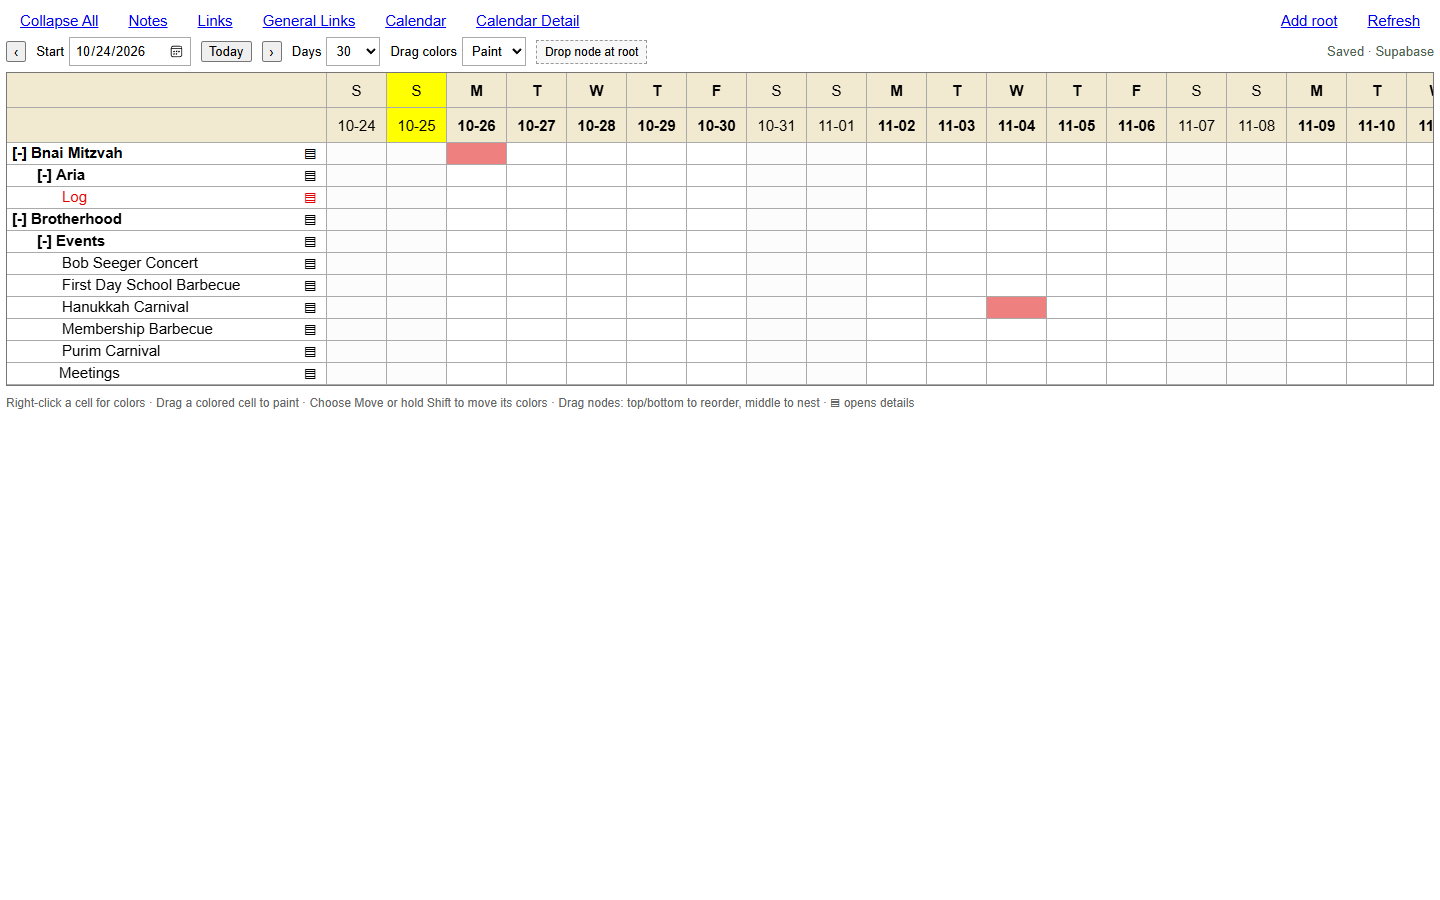
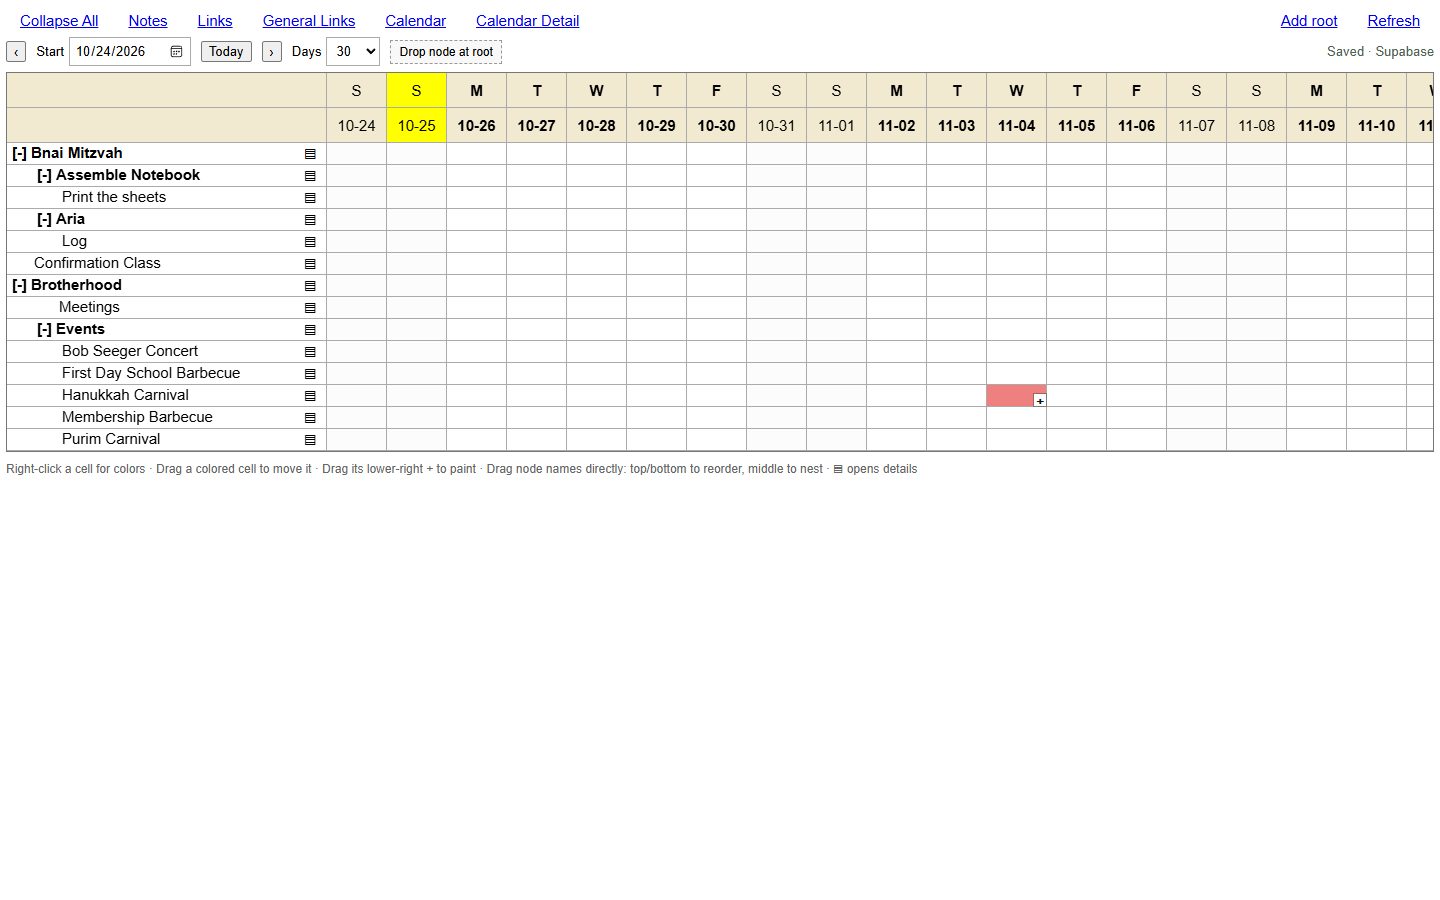
Use white hover popups and add inline sibling creation

diff --git a/src/app.js b/src/app.js
@@ -14,10 +14,10 @@ function dates(){return Array.from({length:Number($('#days').value)},(_,i)=>addD
 function select(id){selected=id;document.querySelectorAll('.node[data-id]').forEach(n=>n.classList.toggle('selected',n.dataset.id===id));}
 function render(){const parents=nodes.filter(n=>children(nodes,n.id).length),anyCollapsed=parents.some(n=>collapsed.has(n.id));$('#expand-toggle').textContent=anyCollapsed?'Expand All':'Collapse All';$('#expand-toggle').setAttribute('aria-expanded',String(!anyCollapsed));const table=el('table'),head=el('thead'),days=dates();
  for(let row=0;row<2;row++){const tr=el('tr'),blank=el('th');blank.className='node head';blank.setAttribute('aria-label',row?'Dates':'Nodes');tr.append(blank);for(const day of days){const d=new Date(day+'T12:00:00'),th=el('th',row?day.slice(5):['S','M','T','W','T','F','S'][d.getDay()]);th.className=(d.getDay()%6===0?'weekend':'weekday')+(day===iso(new Date())?' today':'');th.dataset.day=day;th.setAttribute('aria-label',cellTooltip(day,undefined,iso(new Date())));th.setAttribute('aria-describedby','day-tooltip');tr.append(th);}head.append(tr);}table.append(head);
- const body=el('tbody');for(const node of visible(nodes,collapsed)){const tr=el('tr'),td=el('td'),hasChildren=children(nodes,node.id).length>0;td.className='node'+(hasChildren?' parent':'')+(selected===node.id?' selected':'');td.dataset.id=node.id;td.draggable=true;td.tabIndex=0;td.style.paddingLeft=`${5+(node.depth-1)*25}px`;td.style.color=node.text_color;td.title=`${node.title} · Level ${node.depth}${node.notes?' · Has notes':''}`;
+ const rows=visible(nodes,collapsed);let siblingAnchor=null;if(draft?.action==='Sibling'){const index=rows.findIndex(n=>n.id===draft.node.id);if(index>=0){let last=index;while(last+1<rows.length&&rows[last+1].depth>rows[index].depth)last++;siblingAnchor=rows[last].id;}}const body=el('tbody');for(const node of rows){const tr=el('tr'),td=el('td'),hasChildren=children(nodes,node.id).length>0;td.className='node'+(hasChildren?' parent':'')+(selected===node.id?' selected':'');td.dataset.id=node.id;td.draggable=true;td.tabIndex=0;td.style.paddingLeft=`${5+(node.depth-1)*25}px`;td.style.color=node.text_color;td.title=`${node.title} · Level ${node.depth}${node.notes?' · Has notes':''}`;
  if(hasChildren){const toggle=el('button',collapsed.has(node.id)?'[+]':'[-]');toggle.className='toggle';toggle.setAttribute('aria-label',`${collapsed.has(node.id)?'Expand':'Collapse'} ${node.title}`);toggle.setAttribute('aria-expanded',String(!collapsed.has(node.id)));toggle.onclick=e=>{e.stopPropagation();collapsed.has(node.id)?collapsed.delete(node.id):collapsed.add(node.id);remember();render();};td.append(toggle);}else if(node.depth<3){const space=el('span','');space.style.display='inline-block';space.style.width='22px';td.append(space);}
  const detail=el('button','▤');detail.className='node-detail';detail.setAttribute('aria-label',`Details for ${node.title}`);detail.onclick=e=>{e.stopPropagation();select(node.id);openEditor('Edit',node);};td.append(detail,document.createTextNode(node.title));td.onclick=()=>select(node.id);td.ondblclick=()=>openEditor('Edit',node);td.oncontextmenu=e=>{e.preventDefault();select(node.id);openMenu(node,e.clientX,e.clientY);};td.onkeydown=e=>{if(e.target!==td)return;if(e.key==='ContextMenu'||(e.shiftKey&&e.key==='F10')){e.preventDefault();const r=td.getBoundingClientRect();select(node.id);openMenu(node,r.left+30,r.bottom);}if(e.key==='Enter'){select(node.id);openEditor('Edit',node);}};tr.append(td);
- for(const day of days){const cell=el('td');const d=new Date(day+'T12:00:00');cell.className='cell'+(d.getDay()%6===0?' weekend-cell':'');cell.dataset.day=day;cell.dataset.nodeId=node.id;cell.tabIndex=0;cell.setAttribute('aria-label',`${node.title}, ${day}`);const colors=barColors(node,day);if(colors.length){cell.classList.add('bar');cell.style.setProperty('--bar',colorFill(colors));}cell.setAttribute('aria-describedby','day-tooltip');const fill=el('button','+');fill.className='fill-handle';fill.type='button';fill.setAttribute('aria-label','Paint from this cell');fill.onclick=e=>{e.stopPropagation();};cell.append(fill);cell.onclick=()=>{select(node.id);openEditor('Edit',node,day);};tr.append(cell);}if(draft?.action==='Add parent'&&draft.node.id===node.id)body.append(draftRow(days.length,node.depth));body.append(tr);if(draft?.action==='Add child'&&draft.node.id===node.id)body.append(draftRow(days.length,node.depth+1));}if(draft?.action==='Add root')body.append(draftRow(days.length,1));table.append(body);$('#chart').replaceChildren(table);if(!nodes.length&&!draft){const empty=el('p','No nodes yet. Use Add root to begin.');empty.className='empty';$('#chart').append(empty);}}
+ for(const day of days){const cell=el('td');const d=new Date(day+'T12:00:00');cell.className='cell'+(d.getDay()%6===0?' weekend-cell':'');cell.dataset.day=day;cell.dataset.nodeId=node.id;cell.tabIndex=0;cell.setAttribute('aria-label',`${node.title}, ${day}`);const colors=barColors(node,day);if(colors.length){cell.classList.add('bar');cell.style.setProperty('--bar',colorFill(colors));}cell.setAttribute('aria-describedby','day-tooltip');const fill=el('button','+');fill.className='fill-handle';fill.type='button';fill.setAttribute('aria-label','Paint from this cell');fill.onclick=e=>{e.stopPropagation();};cell.append(fill);cell.onclick=()=>{select(node.id);openEditor('Edit',node,day);};tr.append(cell);}if(draft?.action==='Add parent'&&draft.node.id===node.id)body.append(draftRow(days.length,node.depth));body.append(tr);if(draft?.action==='Add child'&&draft.node.id===node.id)body.append(draftRow(days.length,node.depth+1));if(node.id===siblingAnchor)body.append(draftRow(days.length,level(nodes,draft.node)));}if(draft?.action==='Add root')body.append(draftRow(days.length,1));table.append(body);$('#chart').replaceChildren(table);if(!nodes.length&&!draft){const empty=el('p','No nodes yet. Use Add root to begin.');empty.className='empty';$('#chart').append(empty);}}
 function openMenu(node,x,y){const menu=$('#menu');menu.replaceChildren();for(const action of actions(nodes,node)){const button=el('button',action);button.setAttribute('role','menuitem');button.onclick=()=>{menu.hidden=true;if(action==='Delete')deleteNode(node);else if(action==='Edit')openEditor(action,node);else startDraft(action,node);};menu.append(button);}menu.hidden=false;const r=menu.getBoundingClientRect();menu.style.left=`${Math.max(0,Math.min(x,innerWidth-r.width-8))}px`;menu.style.top=`${Math.max(0,Math.min(y,innerHeight-r.height-8))}px`;menu.firstChild.focus();}
 document.addEventListener('pointerdown',e=>{if(!$('#menu').contains(e.target))$('#menu').hidden=true;});document.addEventListener('keydown',e=>{if(e.key==='Escape')$('#menu').hidden=true;const m=$('#menu');if(!m.hidden&&['ArrowDown','ArrowUp'].includes(e.key)){e.preventDefault();const a=[...m.children],i=a.indexOf(document.activeElement);a[(i+(e.key==='ArrowDown'?1:a.length-1))%a.length].focus();}});
 function startDraft(action,node=null){
@@ -28,7 +28,7 @@ function startDraft(action,node=null){
 }
 function draftRow(dayCount,depth){
  const tr=el('tr'),td=el('td');tr.className='draft-row';td.className='node draft-node';td.style.paddingLeft=`${5+(depth-1)*25}px`;
- const name=el('input');name.id='draft-name';name.placeholder='New '+(draft.action==='Add parent'?'parent':draft.action==='Add child'?'child':'root');name.setAttribute('aria-label','New node name');name.maxLength=300;name.value=draft.title;name.disabled=busy;name.oninput=()=>{draft.title=name.value;};name.onkeydown=e=>{e.stopPropagation();if(e.key==='Enter'){e.preventDefault();saveDraft(false);}if(e.key==='Escape'){draft=null;render();}};
+ const name=el('input');name.id='draft-name';name.placeholder='New '+(draft.action==='Add parent'?'parent':draft.action==='Add child'?'child':draft.action==='Sibling'?'sibling':'root');name.setAttribute('aria-label','New node name');name.maxLength=300;name.value=draft.title;name.disabled=busy;name.oninput=()=>{draft.title=name.value;};name.onkeydown=e=>{e.stopPropagation();if(e.key==='Enter'){e.preventDefault();saveDraft(false);}if(e.key==='Escape'){draft=null;render();}};
  const save=el('button','✓');save.setAttribute('aria-label','Save new row');save.onclick=()=>saveDraft(false);
  const detail=el('button','▤');detail.setAttribute('aria-label','Save new row and open details');detail.onclick=()=>saveDraft(true);
  const cancel=el('button','×');cancel.setAttribute('aria-label','Cancel new row');cancel.onclick=()=>{if(busy)return;draft=null;render();};
@@ -37,7 +37,7 @@ function draftRow(dayCount,depth){
 }
 async function saveDraft(details){
  if(!draft||busy)return;const pending=draft,title=pending.title.trim();if(!title){status('Enter a name for the new row.',true);$('#draft-name').focus();return;}
- let id;try{await mutate(async()=>{if(pending.action==='Add parent'){id=await api.addParent(pending.node.id,title);}else{const parent_id=pending.action==='Add child'?pending.node.id:null;const siblings=children(nodes,parent_id);const position=pending.action==='Add child'?Math.min(0,...siblings.map(n=>n.position))-1:Math.max(0,...siblings.map(n=>n.position))+1;const [created]=await api.create({title,parent_id,position});id=created.id;}draft=null;selected=id;collapsed.delete(id);remember();});if(details){const node=nodes.find(n=>n.id===id);if(node)openEditor('Edit',node);}}catch{render();$('#draft-name')?.focus();}
+ let id;try{await mutate(async()=>{if(pending.action==='Add parent'){id=await api.addParent(pending.node.id,title);}else{const parent_id=pending.action==='Sibling'?pending.node.parent_id:pending.action==='Add child'?pending.node.id:null;const siblings=children(nodes,parent_id);let position=pending.action==='Add child'?Math.min(0,...siblings.map(n=>n.position))-1:Math.max(0,...siblings.map(n=>n.position))+1;if(pending.action==='Sibling'){const next=siblings[siblings.findIndex(n=>n.id===pending.node.id)+1];position=next?(pending.node.position+next.position)/2:pending.node.position+1;}const [created]=await api.create({title,parent_id,position});id=created.id;}draft=null;selected=id;collapsed.delete(id);remember();});if(details){const node=nodes.find(n=>n.id===id);if(node)openEditor('Edit',node);}}catch{render();$('#draft-name')?.focus();}
 }
 function addRange(bar={}){
  const row=el('div');row.className='bar-range';

diff --git a/src/style.css b/src/style.css
@@ -1,7 +1,7 @@
 *{box-sizing:border-box}body{margin:6px;font:15px Arial,sans-serif;color:#000;background:#fff}button,input,select,textarea{font:inherit}nav{display:flex;align-items:center;gap:30px;padding:6px 14px 8px;flex-wrap:wrap}nav button{border:0;padding:0;background:transparent;color:#00e;text-decoration:underline;cursor:pointer}.spacer{flex:1}.range{display:flex;align-items:center;gap:10px;margin:0 0 6px;min-height:27px;font-size:13px}.range button{cursor:pointer}.range input{font-size:13px}.range label{display:flex;gap:5px;align-items:center}#status{margin-left:auto;color:#4d6350}#status.error{color:#bc1111}main{overflow:auto;max-height:calc(100vh - 115px);border:1px solid #777;min-height:180px}table{border-collapse:separate;border-spacing:0;table-layout:fixed;width:max-content}th,td{border-right:1px solid #aaa;border-bottom:1px solid #aaa;padding:0;height:22px;min-width:60px;width:60px;text-align:center}thead{position:sticky;top:0;z-index:3}th{background:#f2ead0;font-weight:normal;height:35px}.weekday{font-weight:bold}.weekend{font-weight:normal}.today{background:#ff0!important}.node{position:sticky;left:0;z-index:2;background:#fff;width:320px;min-width:320px;max-width:320px;text-align:left;overflow:hidden;white-space:nowrap;text-overflow:ellipsis;padding-right:6px;cursor:default}.node.head{z-index:4;background:#f2ead0}.node.selected{background:#007ed5;color:#fff!important}.node.parent{font-weight:bold}.node:focus-visible{outline:2px solid #007ed5;outline-offset:-2px}.toggle{font:inherit;padding:0;border:0;background:none;color:inherit;cursor:pointer;margin-right:4px}.cell{cursor:crosshair}.cell:hover{box-shadow:inset 0 0 0 2px #007ed5}.cell.bar{background:var(--bar)}.cell.weekend-cell{background-color:#fcfcfc}.cell.bar.weekend-cell{background:var(--bar)}footer{font-size:12px;color:#666;padding-top:8px}#menu{position:fixed;z-index:10;background:#fff;border:1px solid #888;box-shadow:2px 3px 9px #0003;padding:4px;min-width:155px}#menu button{display:block;border:0;background:#fff;text-align:left;width:100%;padding:7px 12px;cursor:pointer}#menu button:hover,#menu button:focus{background:#007ed5;color:white}dialog{border:1px solid #888;border-radius:3px;max-width:min(94vw,620px);width:540px;padding:22px;max-height:90vh;overflow:auto}dialog::backdrop{background:#0004}h2{font-size:20px;margin:0 0 16px}form>label{display:flex;flex-direction:column;gap:5px;margin:12px 0}input,textarea,select{border:1px solid #aaa;padding:5px}textarea{resize:vertical}.fields{display:flex;gap:16px}.fields label{flex:1;display:flex;flex-direction:column;gap:5px;min-width:0}.fields input{width:100%}input[type=color]{height:32px}.actions{display:flex;justify-content:flex-end;gap:10px;margin-top:18px}.actions button{padding:6px 18px;cursor:pointer}#save{background:#007ed5;border:1px solid #006db8;color:white}#form-error{color:#bd1717;font-size:14px}#panel-content{white-space:pre-wrap;overflow-wrap:anywhere}#panel-content section{padding:10px 0;border-bottom:1px solid #ddd}#panel-content h3{font-size:15px;margin:0 0 6px}#panel-content textarea{width:100%}.empty{padding:32px;color:#666}.calendar-event{display:block;text-align:left;padding:4px 0;background:none;border:0;color:#00e;cursor:pointer}button:disabled{opacity:.55;cursor:wait}@media(max-width:700px){nav{gap:14px;padding-left:0}.range{flex-wrap:wrap}.node{width:260px;min-width:260px;max-width:260px}main{max-height:calc(100vh - 180px)}#status{margin-left:0}}
  [hidden]{display:none!important}
 .node-detail{float:right;border:0;background:transparent;color:inherit;cursor:pointer;padding:0 3px;font-size:15px;line-height:20px;font-weight:normal}.node-detail:hover{background:#ddd;color:#000}.draft-node{overflow:visible;background:#fff9d9;white-space:nowrap}.draft-node input{width:calc(100% - 72px);min-width:30px;font-size:14px;padding:2px}.draft-action{border:0;background:transparent;padding:2px 4px;cursor:pointer;color:#006bb6}.draft-hint{text-align:left;padding-left:10px;color:#776736;background:#fffdf1;font-size:12px}.bar-range{display:flex;gap:8px;align-items:flex-end;margin:8px 0}.bar-range label{display:flex;flex-direction:column;gap:4px;min-width:0;flex:1;font-size:13px}.bar-range label:last-of-type{flex:0 0 52px}.bar-range input{width:100%;min-width:0}.bar-range button{height:31px;cursor:pointer}fieldset{border:1px solid #bbb;margin:12px 0;padding:10px}.hint{font-size:12px;color:#666;margin-bottom:0}
-#day-tooltip{position:fixed;z-index:20;background:#222;color:#fff;border-radius:3px;padding:4px 7px;font-size:13px;pointer-events:none}.cell{user-select:none;touch-action:pan-x pan-y}.color-dragging,.color-dragging *{user-select:none!important;cursor:crosshair!important}.paint-preview{outline:2px solid #007ed5;outline-offset:-2px}.cell:focus-visible{outline:2px solid #007ed5;outline-offset:-2px}.node[draggable=true]{cursor:grab}.drag-source{opacity:.45}.drop-before{box-shadow:inset 0 3px #007ed5}.drop-after{box-shadow:inset 0 -3px #007ed5}.drop-inside{outline:2px solid #007ed5;outline-offset:-2px;background:#dcefff!important;color:#000!important}.drop-invalid{outline:2px solid #d22;outline-offset:-2px}#root-drop{font-size:12px;border:1px dashed #999;background:#f8f8f8;padding:4px 8px}footer{line-height:1.5}
+#day-tooltip{position:fixed;z-index:20;background:#fff;color:#111;border:1px solid #aaa;box-shadow:0 2px 6px #0002;border-radius:3px;padding:4px 7px;font-size:13px;pointer-events:none}.cell{user-select:none;touch-action:pan-x pan-y}.color-dragging,.color-dragging *{user-select:none!important;cursor:crosshair!important}.paint-preview{outline:2px solid #007ed5;outline-offset:-2px}.cell:focus-visible{outline:2px solid #007ed5;outline-offset:-2px}.node[draggable=true]{cursor:grab}.drag-source{opacity:.45}.drop-before{box-shadow:inset 0 3px #007ed5}.drop-after{box-shadow:inset 0 -3px #007ed5}.drop-inside{outline:2px solid #007ed5;outline-offset:-2px;background:#dcefff!important;color:#000!important}.drop-invalid{outline:2px solid #d22;outline-offset:-2px}#root-drop{font-size:12px;border:1px dashed #999;background:#f8f8f8;padding:4px 8px}footer{line-height:1.5}
 
 #day-tooltip{white-space:pre-line;max-width:min(340px,calc(100vw - 8px));overflow-wrap:anywhere;line-height:1.5}.node[draggable=true]{cursor:move}
 .cell{position:relative}.cell.bar{cursor:move}.fill-handle{display:none;position:absolute;right:0;bottom:0;width:12px;height:12px;line-height:10px;padding:0;border:0;background:#fff;color:#111;font:bold 13px Arial,sans-serif;cursor:crosshair;touch-action:none;box-shadow:0 0 0 1px #3336;z-index:1}.cell.bar>.fill-handle{display:block}.fill-handle:hover,.fill-handle:focus-visible{background:#111;color:#fff;outline:1px solid #fff}

diff --git a/tests/hierarchy.test.js b/tests/hierarchy.test.js
@@ -2,7 +2,7 @@ import {test} from 'node:test';
 import assert from 'node:assert/strict';
 import {actions,level,height,visible,addDays} from '../src/model.js';
 const nodes=[{id:'a',parent_id:null,position:0},{id:'b',parent_id:'a',position:0},{id:'c',parent_id:'b',position:0},{id:'d',parent_id:'c',position:0}];
-test('fourth-level nodes expose only Edit and Delete',()=>{assert.equal(level(nodes,nodes[3]),4);assert.deepEqual(actions(nodes,nodes[3]),['Edit','Delete']);assert.deepEqual(actions(nodes,nodes[2]),['Add parent','Add child','Edit','Delete']);});
+test('fourth-level nodes allow siblings without adding a deeper level',()=>{assert.equal(level(nodes,nodes[3]),4);assert.deepEqual(actions(nodes,nodes[3]),['Sibling','Edit','Delete']);assert.deepEqual(actions(nodes,nodes[2]),['Add parent','Add child','Sibling','Edit','Delete']);});
 test('wrapping a branch accounts for all descendant levels',()=>{assert.equal(height(nodes,nodes[0]),4);assert.equal(level(nodes,nodes[1])+height(nodes,nodes[1]),5);});
 test('collapse retains the parent and hides all descendants',()=>{assert.deepEqual(visible(nodes,new Set(['b'])).map(n=>n.id),['a','b']);assert.deepEqual(visible(nodes,new Set()).map(n=>n.depth),[1,2,3,4]);});
 test('date stepping works across month and year boundaries',()=>{assert.equal(addDays('2026-12-31',1),'2027-01-01');assert.equal(addDays('2028-02-28',1),'2028-02-29');});

diff --git a/src/model.js b/src/model.js
@@ -2,6 +2,6 @@ export function children(nodes,id){return nodes.filter(n=>n.parent_id===id).sort
 export function level(nodes,node){let d=1,p=node.parent_id;const seen=new Set([node.id]);while(p){if(seen.has(p))throw Error('Invalid hierarchy');seen.add(p);const parent=nodes.find(n=>n.id===p);if(!parent)break;d++;p=parent.parent_id;}return d;}
 export function height(nodes,node){return 1+Math.max(0,...children(nodes,node.id).map(n=>height(nodes,n)));}
 export function visible(nodes,collapsed){const result=[];function walk(parent,depth){for(const n of children(nodes,parent)){result.push({...n,depth});if(!collapsed.has(n.id))walk(n.id,depth+1);}}walk(null,1);return result;}
-export function actions(nodes,node){return level(nodes,node)===4?['Edit','Delete']:['Add parent','Add child','Edit','Delete'];}
+export function actions(nodes,node){return level(nodes,node)===4?['Sibling','Edit','Delete']:['Add parent','Add child','Sibling','Edit','Delete'];}
 export function iso(date){return `${date.getFullYear()}-${String(date.getMonth()+1).padStart(2,'0')}-${String(date.getDate()).padStart(2,'0')}`;}
 export function addDays(value,count){const d=new Date(value+'T12:00:00');d.setDate(d.getDate()+count);return iso(d);}

diff --git a/README.md b/README.md
@@ -13,7 +13,8 @@ npm run dev
 
 ## Use
 
-- Right-click a node (or Shift+F10): **Add parent, Add child, Edit, Delete**. Level four has only **Edit, Delete**.
+- Right-click a node (or Shift+F10): **Add parent, Add child, Sibling, Edit, Delete**. Level four has **Sibling, Edit, Delete**.
+- **Sibling** inserts a row after the selected node's branch, with the same parent and indentation. It also works for root nodes and level-four nodes.
 - Add parent wraps a node and its branch. A wrapper that would exceed four levels is rejected atomically. The database also rejects cycles and fifth-level inserts.
 - Add root, Add child, and Add parent insert an inline name row. Enter or ✓ saves it; ▤ saves it and opens details; × cancels the draft. Add root creates a level-one node. Delete removes the selected node and all descendants after confirmation.
 - Use ▤ or double-click a node to edit its name, colored date ranges, text color, notes, or links. Add color range adds another independently colored bar on the same row. Overlaps appear as horizontal stripes. Remove a range with ×. Clicking an unscheduled date appends a one-day range without replacing existing ranges.
